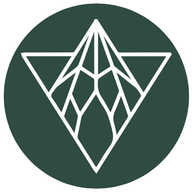
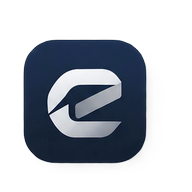
Apply the new exir ERP brand mark app-wide, fix HR hire-date edit, and auto-refresh module state
- Replace the generic placeholder LogoMark (a plain house icon) with the
  real exir ERP glyph everywhere it's used across web-panel and admin-panel
  (login, sidebar, every public token page), plus all PWA/favicon assets
  and the marketing-site's header/hero/OG-image logos.
- Change eta.co.ir's header brand name to "اکسیرتجارت امین".
- HR employee edit form was missing تاریخ استخدام entirely — added with
  the app's standard JalaliDateInput.
- Activating/deactivating a module only updated local component state;
  the sidebar's nav-gating reads from WorkspaceContext's installedModules,
  which only ever loaded once on mount, so newly active modules needed a
  full page reload to appear. Added refreshInstalledModules() to the
  context and call it after every install/uninstall/demo-activate.
- Built out the Settings → "ماژولهای نصبشده" page (was a bare "coming
  soon" stub) to list active + already-paid-for modules with a free
  toggle, linking out to the full module store for anything new.

diff --git a/apps/web-panel/src/app/(app)/settings/modules/page.tsx b/apps/web-panel/src/app/(app)/settings/modules/page.tsx
@@ -1,10 +1,124 @@
-import { ComingSoon } from "@/components/settings/ComingSoon";
+"use client";
+
+import { useEffect, useMemo, useState } from "react";
+import Link from "next/link";
+import { Card } from "@/components/ui/Card";
+import { Badge } from "@/components/ui/Badge";
+import { formatJalaliDate } from "@/lib/persian";
+import { fetchModules, installModule, uninstallModule, type ModuleCatalogItem } from "@/lib/api";
+import { useWorkspace } from "@/lib/workspace-context";
+
+function isActive(m: ModuleCatalogItem) {
+  return m.installStatus === "INSTALLED" || m.installStatus === "TRIAL" || (m.installStatus === null && m.isCore);
+}
+
+/** ماژولی که مشتری حداقل یکبار برایش پرداخت کرده (لایسنس دائمی، یا هنوز داخل دورهی پرداختشده) — فعال/غیرفعال کردنش دیگر رایگان است. */
+function isOwned(m: ModuleCatalogItem): boolean {
+  if (m.priceMonthly === 0 || m.isCore) return true;
+  if (m.billingMode === "LICENSE") return true;
+  if (m.currentPeriodEnd && new Date(m.currentPeriodEnd).getTime() > Date.now()) return true;
+  return false;
+}
 
 export default function InstalledModulesSettingsPage() {
+  const { refreshInstalledModules } = useWorkspace();
+  const [modules, setModules] = useState<ModuleCatalogItem[] | null>(null);
+  const [pendingCode, setPendingCode] = useState<string | null>(null);
+
+  function reload() {
+    fetchModules().then(setModules).catch(() => setModules([]));
+  }
+  useEffect(reload, []);
+
+  const ownedOrActive = useMemo(
+    () => (modules ?? []).filter((m) => isActive(m) || isOwned(m)).sort((a, b) => Number(isActive(b)) - Number(isActive(a))),
+    [modules],
+  );
+
+  async function handleToggle(m: ModuleCatalogItem) {
+    setPendingCode(m.code);
+    try {
+      const updated = isActive(m) ? await uninstallModule(m.code) : await installModule(m.code);
+      setModules((prev) => prev?.map((x) => (x.code === m.code ? { ...x, ...updated } : x)) ?? prev);
+      refreshInstalledModules();
+    } catch {
+      // errors surface globally via ApiError
+    } finally {
+      setPendingCode(null);
+    }
+  }
+
   return (
-    <ComingSoon
-      title="ماژولهای نصبشده"
-      description="پیکربندی متمرکز تنظیمات هر ماژول نصبشده، بدون نیاز به ورود به صفحهی جداگانه"
-    />
+    <div>
+      <div className="flex items-start justify-between gap-4 flex-wrap">
+        <div>
+          <h1 className="text-xl font-extrabold">ماژولهای نصبشده</h1>
+          <p className="text-[13.5px] text-muted mt-1">
+            ماژولهای فعال و ماژولهایی که پیشتر برایشان پرداخت شده — فعال/غیرفعال کردن اینها رایگان است.
+          </p>
+        </div>
+        <Link
+          href="/modules"
+          className="text-[12.5px] font-bold text-primary bg-primary-soft px-4 py-2.5 rounded-xl shrink-0"
+        >
+          فروشگاه ماژولها
+        </Link>
+      </div>
+
+      {modules === null ? (
+        <div className="mt-8 text-center py-16 text-muted text-sm">در حال بارگذاری...</div>
+      ) : ownedOrActive.length === 0 ? (
+        <div className="mt-8 border-[1.5px] border-dashed border-border rounded-2xl py-16 flex flex-col items-center gap-3 text-muted">
+          <span className="text-sm font-semibold">هنوز هیچ ماژولی فعال یا خریداری نشده است</span>
+          <Link href="/modules" className="text-[12.5px] font-bold text-primary">
+            رفتن به فروشگاه ماژولها ←
+          </Link>
+        </div>
+      ) : (
+        <Card className="mt-6 p-2">
+          {ownedOrActive.map((m, i) => {
+            const active = isActive(m);
+            const isPending = pendingCode === m.code;
+            return (
+              <div
+                key={m.id}
+                className={`flex items-center justify-between gap-3 px-4 py-3.5 ${
+                  i < ownedOrActive.length - 1 ? "border-b border-border" : ""
+                }`}
+              >
+                <div className="min-w-0">
+                  <div className="flex items-center gap-2">
+                    <div className="text-[13.5px] font-bold truncate">{m.name}</div>
+                    {m.isCore ? <Badge tone="neutral">هسته</Badge> : null}
+                  </div>
+                  <div className="text-[11.5px] text-muted mt-0.5">
+                    {m.category}
+                    {m.billingMode === "LICENSE" ? " · لایسنس دائمی" : ""}
+                    {!active && !m.isCore && m.currentPeriodEnd
+                      ? ` · پرداختشده تا ${formatJalaliDate(m.currentPeriodEnd)}`
+                      : ""}
+                  </div>
+                </div>
+                <div className="flex items-center gap-2 shrink-0">
+                  <Badge tone={active ? "success" : "neutral"}>{active ? "فعال" : "غیرفعال"}</Badge>
+                  {!m.isCore && (
+                    <button
+                      type="button"
+                      onClick={() => handleToggle(m)}
+                      disabled={isPending}
+                      className={`text-[11.5px] font-bold px-3 py-1.5 rounded-lg cursor-pointer disabled:opacity-50 ${
+                        active ? "text-danger bg-danger-soft" : "text-success bg-success-soft"
+                      }`}
+                    >
+                      {isPending ? "..." : active ? "غیرفعالسازی" : "فعالسازی مجدد"}
+                    </button>
+                  )}
+                </div>
+              </div>
+            );
+          })}
+        </Card>
+      )}
+    </div>
   );
 }

diff --git a/apps/web-panel/src/components/hr/EmployeeModal.tsx b/apps/web-panel/src/components/hr/EmployeeModal.tsx
@@ -1,6 +1,7 @@
 import { useEffect, useState } from "react";
 import { Modal } from "@/components/ui/Modal";
 import { Badge } from "@/components/ui/Badge";
+import { JalaliDateInput } from "@/components/ui/JalaliDateInput";
 import { formatToman, formatJalaliDate, toPersianDigits } from "@/lib/persian";
 import {
   fetchEmployee,
@@ -70,6 +71,7 @@ export function EmployeeModal({
   const [editPhone, setEditPhone] = useState("");
   const [editEmail, setEditEmail] = useState("");
   const [editBaseSalary, setEditBaseSalary] = useState("");
+  const [editHireDate, setEditHireDate] = useState("");
   const [savingEdit, setSavingEdit] = useState(false);
   const [togglingStatus, setTogglingStatus] = useState(false);
   const [kpiOpen, setKpiOpen] = useState(false);
@@ -125,11 +127,12 @@ export function EmployeeModal({
     setEditPhone(employee.phone ?? "");
     setEditEmail(employee.email ?? "");
     setEditBaseSalary(String(employee.baseSalary));
+    setEditHireDate(employee.hireDate.slice(0, 10));
     setEditing(true);
   }
 
   async function saveEdit() {
-    if (!editFullName.trim() || !editPosition.trim()) return;
+    if (!editFullName.trim() || !editPosition.trim() || !editHireDate) return;
     setSavingEdit(true);
     try {
       await updateEmployee(employeeId, {
@@ -139,6 +142,7 @@ export function EmployeeModal({
         phone: editPhone.trim() || undefined,
         email: editEmail.trim() || undefined,
         baseSalary: Number(editBaseSalary) || 0,
+        hireDate: editHireDate,
       });
       setEditing(false);
       reload();
@@ -314,6 +318,14 @@ export function EmployeeModal({
                   className="flex-1 text-[13px] outline-none bg-surface border border-border rounded-lg px-2.5 py-2"
                 />
               </div>
+              <div>
+                <label className="text-[11px] text-muted block mb-1">تاریخ استخدام</label>
+                <JalaliDateInput
+                  value={editHireDate}
+                  onChange={setEditHireDate}
+                  className="text-[13px] outline-none bg-surface border border-border rounded-lg px-2.5 py-2 w-full"
+                />
+              </div>
               <div className="flex items-center justify-end gap-2">
                 <button
                   type="button"
@@ -325,7 +337,7 @@ export function EmployeeModal({
                 <button
                   type="button"
                   onClick={saveEdit}
-                  disabled={savingEdit || !editFullName.trim() || !editPosition.trim()}
+                  disabled={savingEdit || !editFullName.trim() || !editPosition.trim() || !editHireDate}
                   className="text-[11.5px] font-bold text-white bg-primary px-3.5 py-1.5 rounded-lg cursor-pointer disabled:opacity-50"
                 >
                   {savingEdit ? "در حال ذخیره..." : "ذخیره"}

diff --git a/apps/web-panel/src/lib/workspace-context.tsx b/apps/web-panel/src/lib/workspace-context.tsx
@@ -42,6 +42,8 @@ type WorkspaceState = {
   refreshMe: () => void;
   /** Module codes currently usable by this tenant (installed/trial, or core with no override) — see /modules for the same logic. */
   installedModules: Set<string>;
+  /** بعد از فعال/غیرفعالسازی هر ماژول — تا سایدبار و بقیهی صفحه بدون رفرش کامل مرورگر خودشان را با وضعیت تازهی ماژولها بهروز کنند. */
+  refreshInstalledModules: () => void;
 };
 
 const WorkspaceContext = createContext<WorkspaceState | null>(null);
@@ -63,6 +65,20 @@ export function WorkspaceProvider({ children }: { children: ReactNode }) {
       .then((meData) => {
         setMe(meData);
         applyTenantBranding(meData.tenant);
+      })
+      .catch(() => {});
+  }, []);
+
+  const refreshInstalledModules = useCallback(() => {
+    fetchModules()
+      .then((modules) => {
+        const installed = new Set(
+          modules
+            .filter((m) => m.installStatus === "INSTALLED" || m.installStatus === "TRIAL" || (m.installStatus === null && m.isCore))
+            .map((m) => m.code),
+        );
+        setInstalledModules(installed);
+        setOfflineModuleInstalled(installed.has("offline-sync"));
       })
       .catch(() => {});
   }, []);
@@ -94,7 +110,9 @@ export function WorkspaceProvider({ children }: { children: ReactNode }) {
   }, []);
 
   return (
-    <WorkspaceContext.Provider value={{ me, subscription, license, loading, refreshSubscription, refreshMe, installedModules }}>
+    <WorkspaceContext.Provider
+      value={{ me, subscription, license, loading, refreshSubscription, refreshMe, installedModules, refreshInstalledModules }}
+    >
       {children}
     </WorkspaceContext.Provider>
   );

diff --git a/apps/web-panel/src/app/(app)/modules/page.tsx b/apps/web-panel/src/app/(app)/modules/page.tsx
@@ -80,7 +80,7 @@ function canFreeActivate(m: ModuleCatalogItem): boolean {
 }
 
 export default function ModuleStorePage() {
-  const { me } = useWorkspace();
+  const { me, refreshInstalledModules } = useWorkspace();
   const [modules, setModules] = useState<ModuleCatalogItem[] | null>(null);
   const [search, setSearch] = useState("");
   const [activeCategory, setActiveCategory] = useState("همه");
@@ -154,6 +154,7 @@ export default function ModuleStorePage() {
     try {
       const updated = await installModule(code);
       setModules((prev) => prev?.map((m) => (m.code === code ? { ...m, ...updated } : m)) ?? prev);
+      refreshInstalledModules();
     } catch {
       // errors surface globally via ApiError; keep the store list as-is
     } finally {
@@ -166,6 +167,7 @@ export default function ModuleStorePage() {
     try {
       const updated = await uninstallModule(code);
       setModules((prev) => prev?.map((m) => (m.code === code ? { ...m, ...updated } : m)) ?? prev);
+      refreshInstalledModules();
     } catch {
       // errors surface globally via ApiError; keep the store list as-is
     } finally {
@@ -425,7 +427,10 @@ export default function ModuleStorePage() {
         <ModuleDemoModal
           module={byCode.get(demoModuleCode)!}
           onClose={() => setDemoModuleCode(null)}
-          onActivated={() => fetchModules().then(setModules).catch(() => {})}
+          onActivated={() => {
+            fetchModules().then(setModules).catch(() => {});
+            refreshInstalledModules();
+          }}
         />
       )}
     </div>

diff --git a/apps/web-panel/src/components/icons.tsx b/apps/web-panel/src/components/icons.tsx
@@ -48,14 +48,10 @@ export function ShieldIcon(props: IconProps) {
   );
 }
 
-export function LogoMark(props: IconProps) {
-  return (
-    <svg {...base} {...props}>
-      <path d="M3 12l9-9 9 9" />
-      <path d="M5 10v10h14V10" />
-      <path d="M9 20v-6h6v6" />
-    </svg>
-  );
+/** The real exir ERP brand mark — a raster image (not a line-art icon) since its gradient/beveled look can't be a currentColor stroke path. `className` still controls its size the same way every other icon here does. */
+export function LogoMark({ className }: IconProps) {
+  // eslint-disable-next-line @next/next/no-img-element
+  return <img src="/brand/exir-glyph.png" alt="" className={className} />;
 }
 
 export function DashboardIcon(props: IconProps) {

diff --git a/apps/admin-panel/src/components/icons.tsx b/apps/admin-panel/src/components/icons.tsx
@@ -11,14 +11,10 @@ const base = {
   strokeLinejoin: "round" as const,
 };
 
-export function LogoMark(props: IconProps) {
-  return (
-    <svg {...base} {...props}>
-      <path d="M3 12l9-9 9 9" />
-      <path d="M5 10v10h14V10" />
-      <path d="M9 20v-6h6v6" />
-    </svg>
-  );
+/** The real exir ERP brand mark — a raster image (not a line-art icon) since its gradient/beveled look can't be a currentColor stroke path. `className` still controls its size the same way every other icon here does. */
+export function LogoMark({ className }: IconProps) {
+  // eslint-disable-next-line @next/next/no-img-element
+  return <img src="/brand/exir-glyph.png" alt="" className={className} />;
 }
 
 export function PlusIcon(props: IconProps) {

diff --git a/apps/marketing-site/src/components/SiteHeader.tsx b/apps/marketing-site/src/components/SiteHeader.tsx
@@ -7,7 +7,7 @@ export function SiteHeader() {
       <div className="max-w-[1100px] mx-auto px-6 h-16 flex items-center justify-between">
         <Link href="/" className="flex items-center gap-2">
           <Image src="/logo-icon.png" alt="" width={34} height={34} className="rounded-full" priority />
-          <span className="font-display text-[17px] font-extrabold text-primary">اکسیر</span>
+          <span className="font-display text-[17px] font-extrabold text-primary">اکسیرتجارت امین</span>
         </Link>
         <nav className="flex items-center gap-5 text-[13px] font-semibold text-ink-soft">
           <Link href="/#products" className="hover:text-primary transition-colors">
